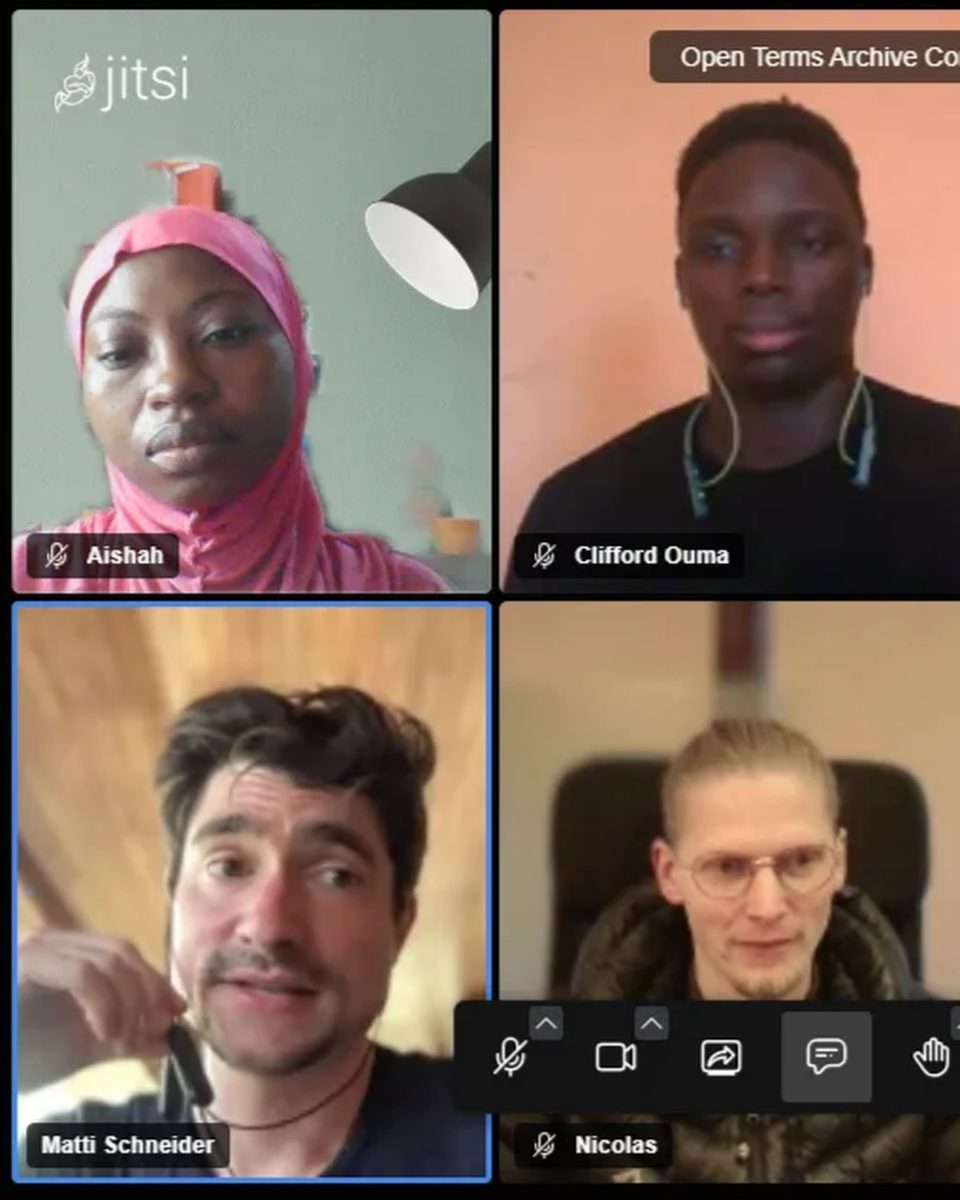
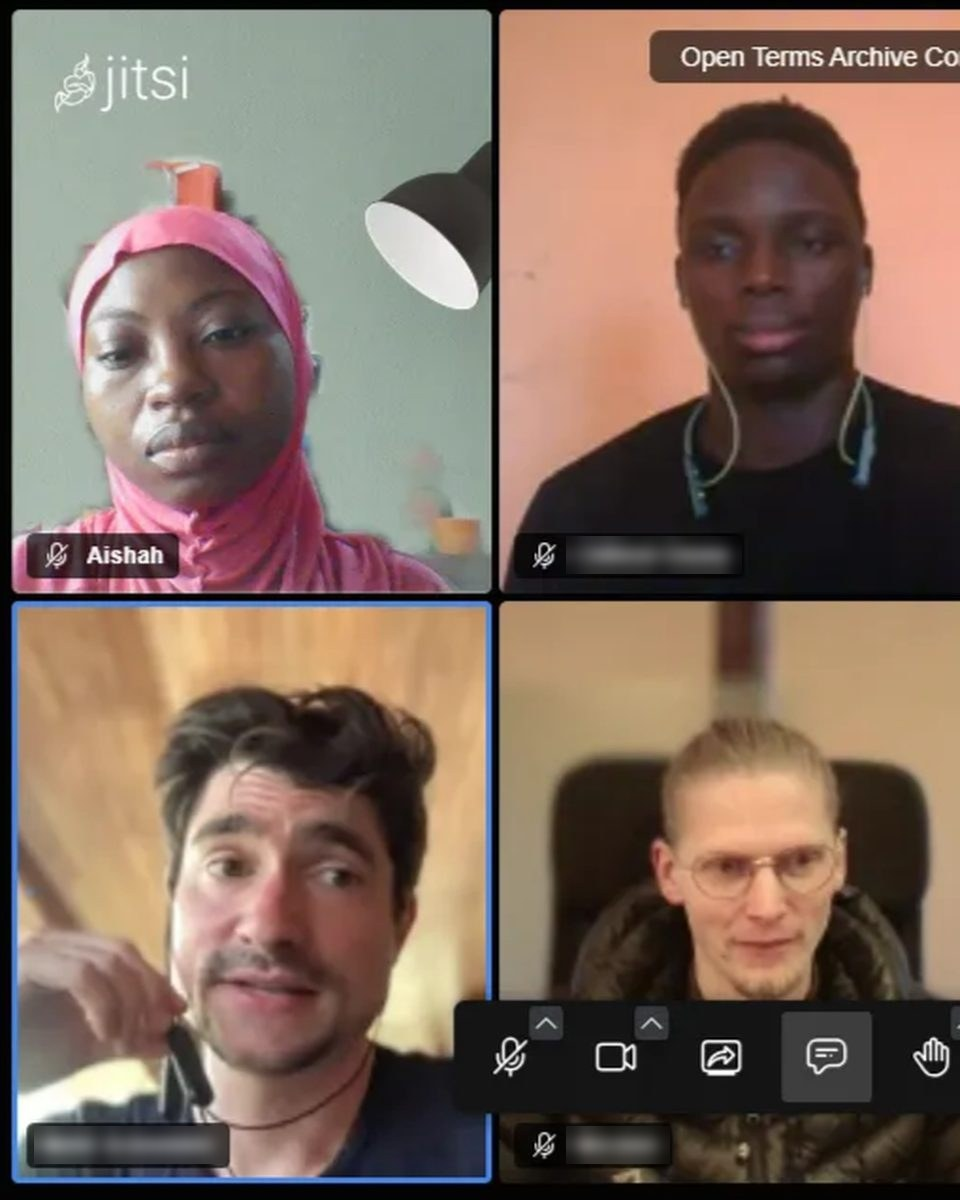
Open Terms Archive: blur the other names in the first-call photo
The first community call photo, on the Work diaries and the Open Terms
Archive case study, showed three other participants' names. They are now
blurred; Aishat's own name label stays.

Claude-Session: https://claude.ai/code/session_01XHYe4MUWViC3jSLNjhurio

Changed region(s): [[0.5938, 0.4317, 0.7812, 0.4933], [0.0312, 0.925, 0.2188, 0.9867], [0.5938, 0.925, 0.6875, 0.9867]]

diff --git a/design/CaseOpenTermsArchive.dc.html b/design/CaseOpenTermsArchive.dc.html
@@ -873,7 +873,7 @@ html.aishah-io .home :is(.quote-hint-text,.moment-hint-text){opacity:calc(1 - va
 <h2 id="visuals-title" class="t-label case-label"><span class="label-dot" aria-hidden="true"></span>Visuals</h2>
 <div class="case-main">
 <div class="case-shots">
-<figure class="case-shot"><div class="case-shot-frame has-image"><img src="/_blob/13c9fb7385539f1ac1dae9cc3b2b9b85" alt="Aishat with contributors on the first Open Terms Archive community call" loading="lazy"></div><figcaption class="t-caption secondary"><span>The first community call</span></figcaption></figure>
+<figure class="case-shot"><div class="case-shot-frame has-image"><img src="/_blob/de814621b0d696888f22641eb9b72980" alt="Aishat with contributors on the first Open Terms Archive community call" loading="lazy"></div><figcaption class="t-caption secondary"><span>The first community call</span></figcaption></figure>
 <figure class="case-shot"><div class="case-shot-frame has-image is-whole"><img src="/_blob/2da8aac21eca2957345ae427798dde88" alt="The Community call page of the Open Terms Archive documentation: a monthly online meeting for and by the community, with its ambitions and a photo of a call" loading="lazy"></div><figcaption class="t-caption secondary"><span>The community call page I documented</span><a class="case-shot-link" href="https://docs.opentermsarchive.org/community/reference/community-call/" target="_blank" rel="noopener">See the page <svg width="18" height="18" viewBox="0 0 24 24" fill="none" stroke="currentColor" stroke-width="1.75" stroke-linecap="round" stroke-linejoin="round" aria-hidden="true"><path d="M7 7h10v10"></path><path d="M7 17 17 7"></path></svg><span class="visually-hidden"> (opens in a new tab)</span></a></figcaption></figure>
 <figure class="case-shot"><div class="case-shot-frame has-image is-whole"><img src="/_blob/b1bd13af57a5fae89783d39d71567068" alt="The How to join the community chat page of the Open Terms Archive documentation, with steps to create an account and set up a profile" loading="lazy"></div><figcaption class="t-caption secondary"><span>How to join the community chat, a guide I documented</span><a class="case-shot-link" href="https://docs.opentermsarchive.org/community/how-to/join/" target="_blank" rel="noopener">See the page <svg width="18" height="18" viewBox="0 0 24 24" fill="none" stroke="currentColor" stroke-width="1.75" stroke-linecap="round" stroke-linejoin="round" aria-hidden="true"><path d="M7 7h10v10"></path><path d="M7 17 17 7"></path></svg><span class="visually-hidden"> (opens in a new tab)</span></a></figcaption></figure>
 </div>
